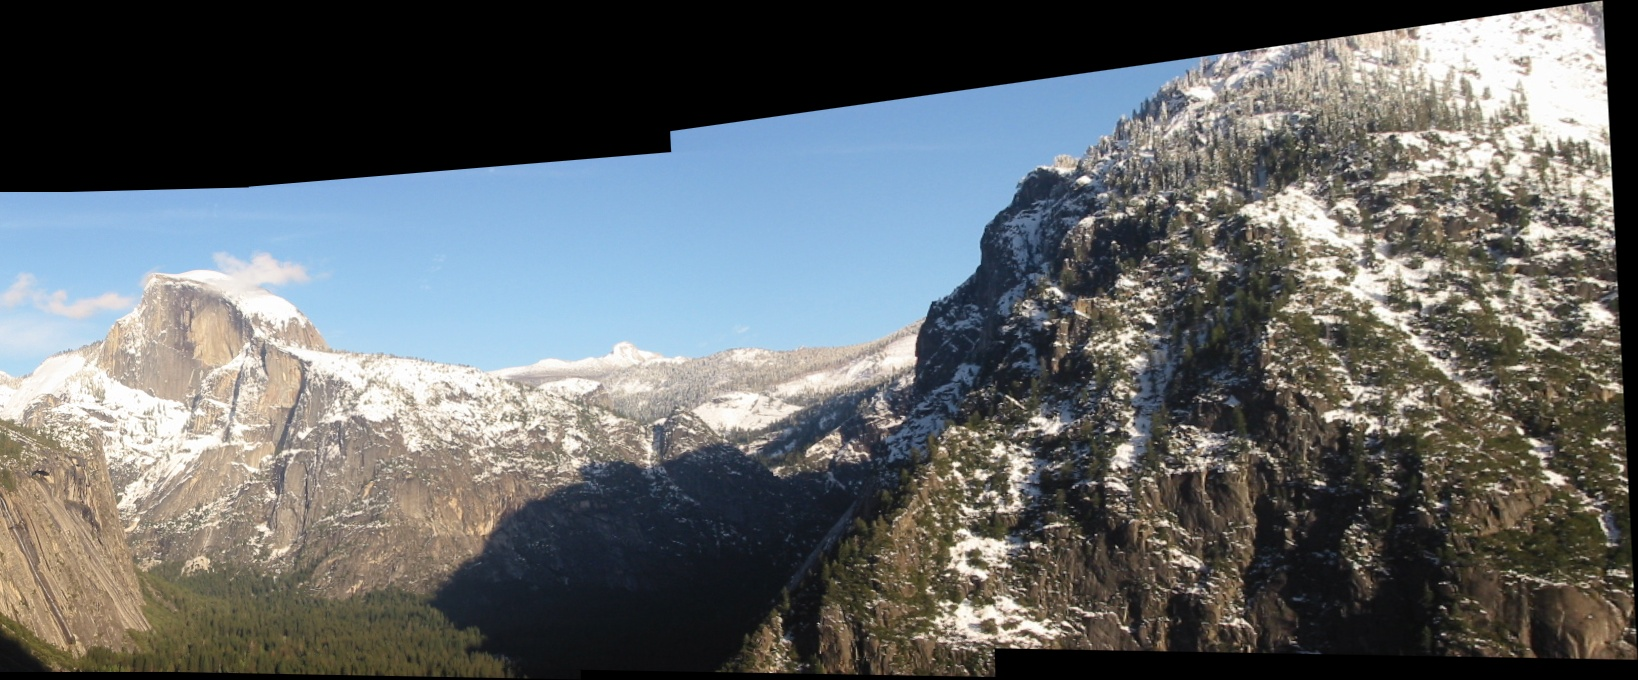
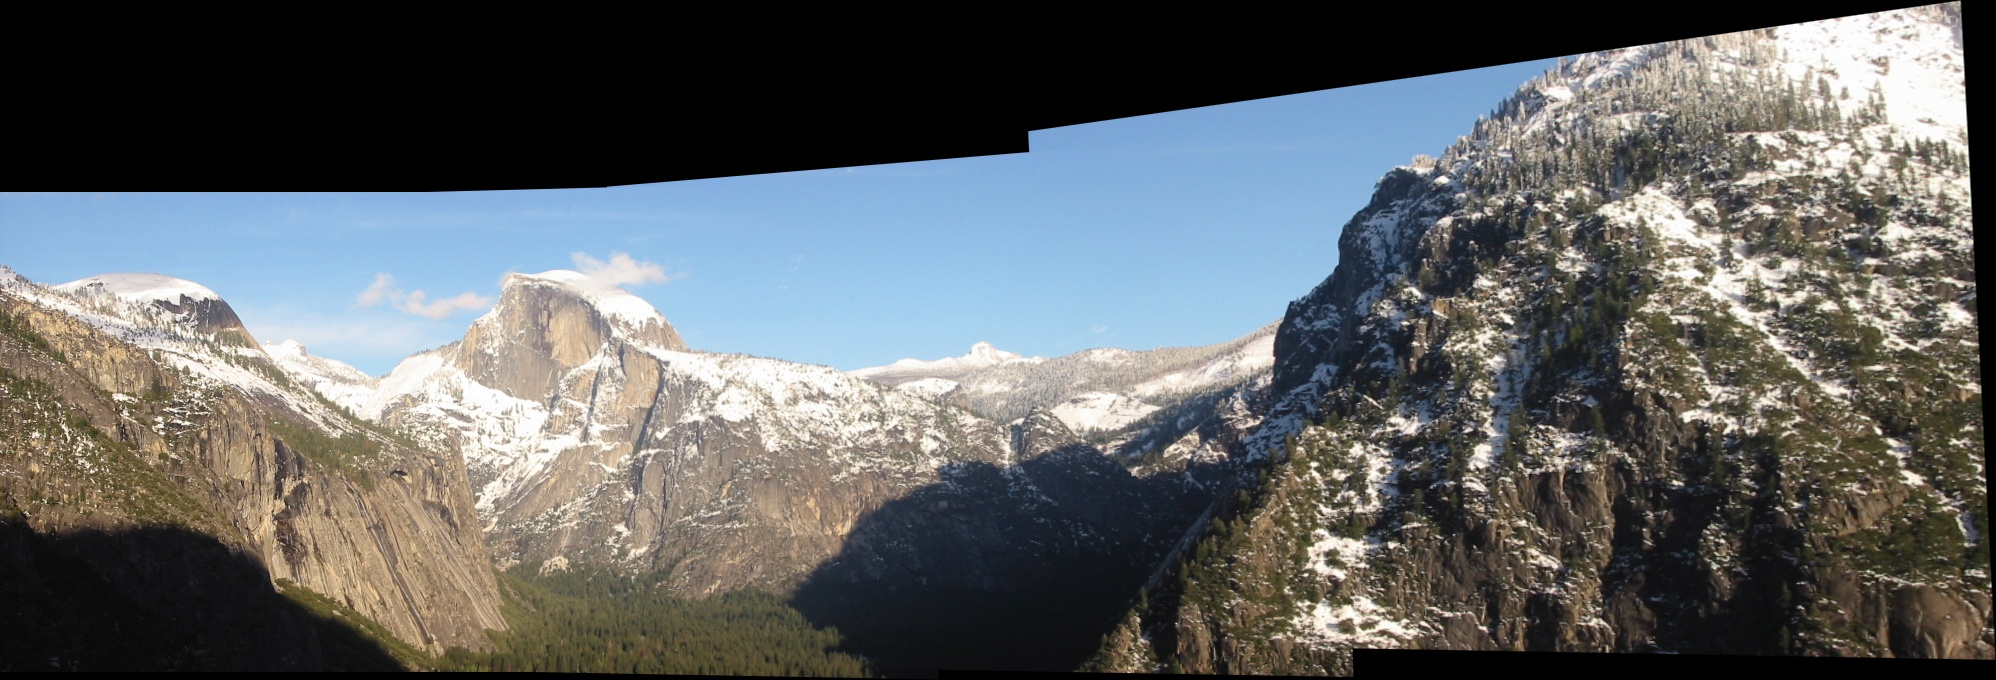
Corrected panoramic image cropping

diff --git a/PanoramaStitching.py b/PanoramaStitching.py
@@ -4,7 +4,7 @@ import os, glob
 
 class Panorama():
 
-    def __init__(self,image_folder, show_imgs=False,
+    def __init__(self,image_folder, show_imgs=False, random_order=True,
                  y_originshift=0,bottom_pad=100):
 
         '''
@@ -22,6 +22,9 @@ class Panorama():
                             to particular y value in canvas
 
             bottom_pad : Add black padding to the bottom of canvas 
+
+            random_order : Specify if the images are random or sequential
+                           (Left to Right) or (Right to Left)
         '''
         
         self.x_originshift, self.y_originshift = 0, y_originshift
@@ -30,9 +33,11 @@ class Panorama():
         img_path = sorted(glob.glob(os.path.join(self.image_folder,'*')))
         self.images = [cv2.imread(p) for p in img_path]
         self.bw_images = [cv2.imread(p,0) for p in img_path]
-        order = self.find_best_matches()
-        self.images = [self.images[i] for i in order]
-        self.bw_images = [self.bw_images[i] for i in order]
+        
+        if random_order:
+            order = self.find_best_matches()
+            self.images = [self.images[i] for i in order]
+            self.bw_images = [self.bw_images[i] for i in order]
 
         if show_imgs:
             for c, img in enumerate(self.images):
@@ -63,7 +68,7 @@ class Panorama():
         self.x_originshift =  width//2
 
         canvas = np.zeros(cnv_shp,np.uint8) 
-
+        canvas_mask = np.zeros_like(canvas)
         # print(canvas.shape,(self.y_originshift+img1_shp[0],self.x_originshift+img1_shp[1] ))
 
         if self.y_originshift+img1_shp[0] > canvas.shape[0]:
@@ -75,10 +80,13 @@ class Panorama():
 
         canvas[self.y_originshift:self.y_originshift+img1_shp[0],
             self.x_originshift:self.x_originshift+img1_shp[1]] = self.images[0]
+        
+        canvas_mask[self.y_originshift:self.y_originshift+img1_shp[0],
+            self.x_originshift:self.x_originshift+img1_shp[1]] = 255
 
-        return canvas
+        return canvas,canvas_mask
 
-    def image_stitch(self, canvas, img2,canvas_mask):
+    def image_blend(self, canvas, img2,canvas_mask):
 
         graycanvas = cv2.cvtColor(canvas,cv2.COLOR_BGR2GRAY)
         grayImg2 = cv2.cvtColor(img2,cv2.COLOR_BGR2GRAY)
@@ -90,10 +98,7 @@ class Panorama():
         img[id1] = canvas[id1]
         img[id2] = img2[id2]
         
-        # id1 = np.where(idx ==1)
-        # canvas_mask[id1] = 255
         canvas_mask[id2] = 255       
-
 
         return  img,canvas_mask
 
@@ -138,7 +143,8 @@ class Panorama():
         return (kp1, kp2), best_n
 
     def crop_canvas(self, canvas_mask,canvas):
-        .
+        # cv2.imshow('ncv' , canvas_mask)
+
         canvas_gr = cv2.cvtColor(canvas_mask,cv2.COLOR_BGR2GRAY)
         ret,thresh = cv2.threshold(canvas_gr,127,255,0)
         contours, hierarchy = cv2.findContours(thresh,cv2.RETR_TREE,cv2.CHAIN_APPROX_SIMPLE)
@@ -146,16 +152,15 @@ class Panorama():
         if len(contours) != 0:
             c = max(contours, key = cv2.contourArea)
             x,y,w,h = cv2.boundingRect(c)
-        
 
+        # cv2.rectangle(canvas,(x,y),(x+w,y+h),(0,255,0),2)
         max_visibile_im_canvas = canvas[y:y+h, x:x+w, :]
 
         return max_visibile_im_canvas
 
     def createPanaroma(self,show_output=True, save_path=None):
 
-        canvas = self.createCanvas(self.bottom_pad)
-        canvas_mask = np.zeros_like(canvas)
+        canvas, canvas_mask = self.createCanvas(self.bottom_pad)
 
         
         img3 = self.bw_images[0].copy()
@@ -177,7 +182,7 @@ class Panorama():
             img3 = cv2.warpPerspective(self.images[i+1],translatedH,
                                         (canvas.shape[1],canvas.shape[0])   )    
 
-            canvas, canvas_mask = self.image_stitch(canvas,img3,canvas_mask)
+            canvas, canvas_mask = self.image_blend(canvas,img3,canvas_mask)
         
         max_im_canvas = self.crop_canvas(canvas_mask,canvas)
 
@@ -187,10 +192,11 @@ class Panorama():
         if show_output:
             cv2.namedWindow('Normal Rectangle Panorama', cv2.WINDOW_NORMAL)
             cv2.imshow('Normal Rectangle Panorama', max_im_canvas)
-
+            
         cv2.waitKey(0)
 
     def save_image_fn(self, save_path, canvas):
+        
         if not os.path.exists(save_path):
             os.mkdir(save_path)
             print(f'Folder created at {save_path}')
@@ -280,7 +286,8 @@ if __name__ == '__main__':
     for image_folder in os.listdir(root):
         print(f'\nCurrently testing {image_folder}')
         pan = Panorama(os.path.join(root,image_folder), show_imgs=False,
-                    y_originshift=250, bottom_pad = 900 )
+                    y_originshift=250, bottom_pad = 900,random_order=True )
+
         pan.createPanaroma(show_output=False, save_path=save_dir)
 
     
